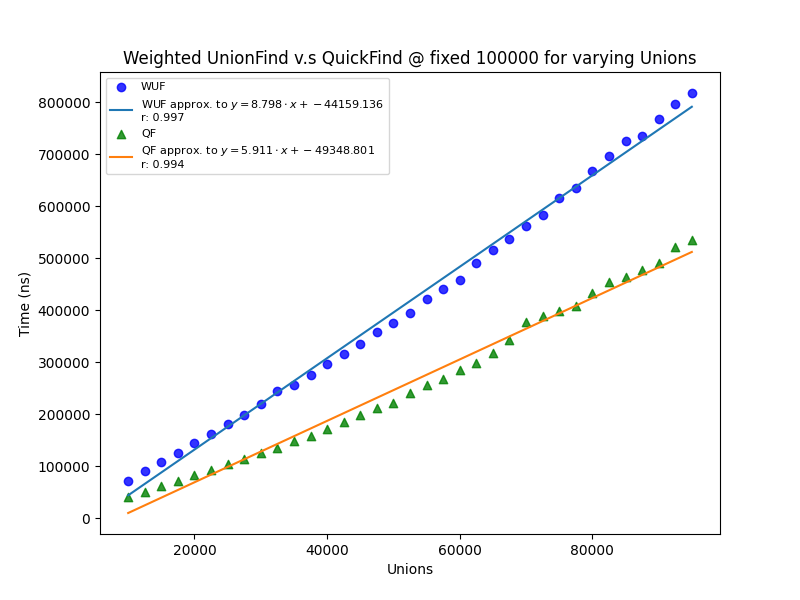
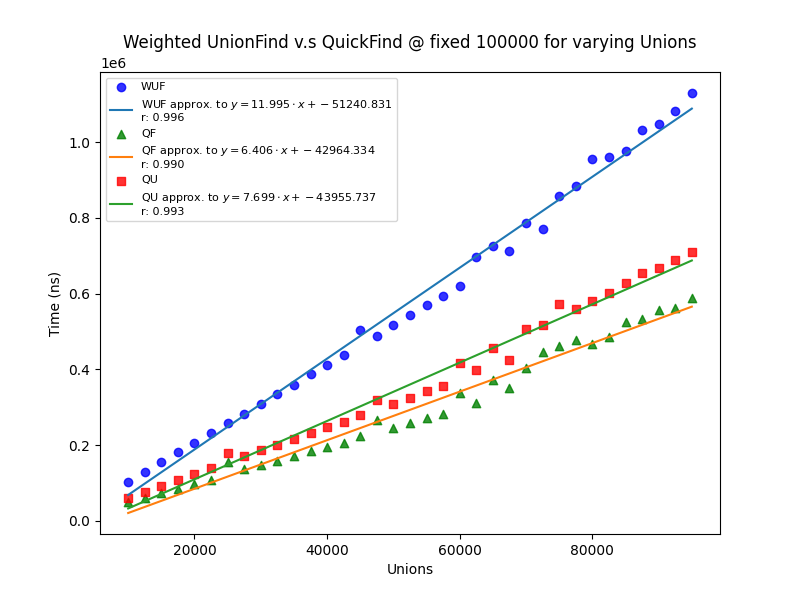
calling this man out

diff --git a/A01/src/race/qfRace.java b/A01/src/race/qfRace.java
@@ -33,7 +33,7 @@ public class qfRace {
         System.out.println("\nGraphing WUF vs QF vs QU with a Max of " + max + " elements");
         
         
-        Plotter<Integer, Double> plt = new Plotter<>("uf/WUFvsQFvsQU_"+max+".png", "Unions", "Time (ns)", Plotter.Type.LINEAR,"WUF vs QF vs QU with a Max of "+ max +" elements");
+        Plotter<Integer, Double> plt = new Plotter<>("uf/WUFvsQFvsQU_"+max+".png", "Unions", "Time (ms)", Plotter.Type.LINEAR,"WUF vs QF vs QU with a Max of "+ max +" elements");
         
         
         WeightedUnionFind wuf = new WeightedUnionFind(UF_SIZE);
@@ -59,8 +59,8 @@ public class qfRace {
         Double[] times = new Double[length];
         
         for (int i = 0; i < length; i++) {
-            uf.reset(unions[i]*10);
-            Integer[][] pairs = Util.genXYPairs(unions[i], unions[i]*10);
+            uf.reset(unions[i]);
+            Integer[][] pairs = Util.genXYPairs(unions[i], unions[i]);
 
             times[i] = measureUfExecTime(uf, pairs);
         }
@@ -76,7 +76,7 @@ public class qfRace {
                 uf.run_union(connections);
             });
         for (int x = 0; x < SAMPLES; x++) {
-            samples[x] = timer.measureNanos((Object) pairs);
+            samples[x] = timer.measureMilis((Object) pairs);
         }
         return Util.sampleMean(samples);
     }

diff --git a/A01/src/uf/QuickFind.java b/A01/src/uf/QuickFind.java
@@ -5,7 +5,6 @@ package src.uf;
  */
 public class QuickFind extends UnionFind {
     private int[] S;
-    private int size;
 
     public QuickFind (int N) {
         reset(N);
@@ -32,7 +31,7 @@ public class QuickFind extends UnionFind {
         
         if(idA == idB) return;
 
-        for (int index = 0; index < size; index++) {
+        for (int index = 0; index < S.length; index++) {
             if (S[index] == idA) {
                 S[index] = idB;
             }
@@ -43,7 +42,7 @@ public class QuickFind extends UnionFind {
      * Reset the object but keep the size of the current Set.
      */
     public void reset(){
-        for (int i = 0; i < this.size; i++) this.S[i] = i;
+        for (int i = 0; i < this.S.length; i++) this.S[i] = i;
     }
 
     /**
@@ -51,7 +50,6 @@ public class QuickFind extends UnionFind {
      * @param N
      */
     public void reset(int N) {
-        this.size = N;
         this.S = new int[N];
         for (int i = 0; i < N; i++) this.S[i] = i;
         

diff --git a/A01/src/scripts/unions.py b/A01/src/scripts/unions.py
@@ -1,0 +1,40 @@
+class QUnionFind:
+    def __init__(self, N:int) -> None:
+        self.d = list(range(N))
+
+    def root(self, a:int) -> int:
+        while a != self.d[a]:
+            a = self.d[a]
+        return a
+    
+    def connected(self, a:int, b:int) -> bool:
+        return self.root(a) == self.root(b)
+
+    def union(self, a:int, b:int) -> None:
+        ra = self.root(a)
+        rb = self.root(b)
+        self.d[ra] = rb
+
+class UnionFind:
+    def __init__(self, N:int) -> None:
+        self.d = list(range(N))
+    def connected(self, a:int, b:int) -> bool:
+        return self.d[a] == self.d[b]
+
+    def union(self, a:int, b:int) -> None:
+        a_id = self.d[a]
+        b_id = self.d[b]
+        
+        for ix, v in enumerate(self.d):
+            if v == a_id:
+                self.d[ix] = b_id
+
+
+import random
+
+unions = range(1000, 9000, 500)
+
+def gen_ints(n) :
+    return [[random.randint(0,10000),random.randint(0,10000)] for _ in range(n)]
+
+for i in 

diff --git a/A01/src/Util.java b/A01/src/Util.java
@@ -96,6 +96,7 @@ public class Util {
         for (int i = 0; i < N; i++) {
             int xCoordinate = rand.nextInt(bound);
             int yCoordinate = rand.nextInt(bound);
+            while(yCoordinate == xCoordinate) yCoordinate = rand.nextInt(bound);
     
             pairs[i][0] = xCoordinate;
             pairs[i][1] = yCoordinate;
@@ -115,6 +116,7 @@ public class Util {
         for (int i = 0; i < N; i++) {
             int xCoordinate = rand.nextInt();
             int yCoordinate = rand.nextInt();
+            while(yCoordinate == xCoordinate) yCoordinate = rand.nextInt();
     
             pairs[i][0] = xCoordinate;
             pairs[i][1] = yCoordinate;

diff --git a/A01/src/race/qfFixedRace.java b/A01/src/race/qfFixedRace.java
@@ -4,6 +4,7 @@ import src.Plotter;
 import src.Timeit;
 import src.Util;
 import src.uf.QuickFind;
+import src.uf.QuickUnion;
 import src.uf.UnionFind;
 import src.uf.WeightedUnionFind;
 
@@ -35,6 +36,11 @@ public class qfFixedRace {
         times = getUfTimes(unions, qf);
         plt.add(unions, times, "QF");
         qf = null;
+
+        QuickUnion qu = new QuickUnion(UF_SIZE);
+        times = getUfTimes(unions, qu);
+        plt.add(unions, times, "QU");
+        qu = null;
 
         plt.plot();
     }

diff --git a/A01/src/App.java b/A01/src/App.java
@@ -11,10 +11,10 @@ public class App {
     //kSumRace ksum = new kSumRace();
     //ksum.start();
     
-    //qfFixedRace qf = new qfFixedRace();
-    //qf.start();
+    qfFixedRace qf = new qfFixedRace();
+    qf.start();
 
-    qfRace qr = new qfRace();
-    qr.start();
+    //qfRace qr = new qfRace();
+    //qr.start();
     }
 }
